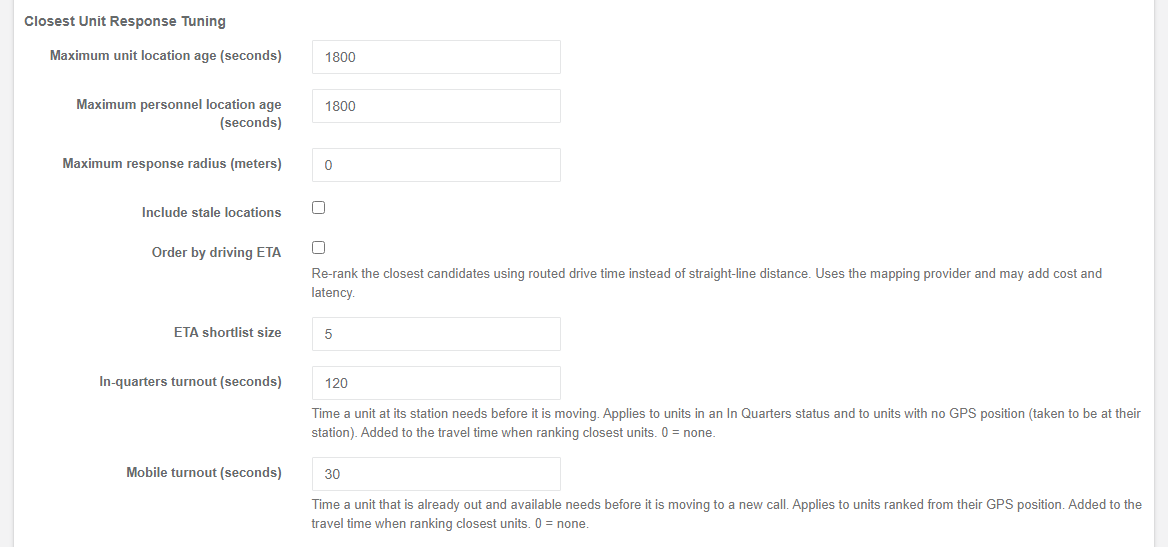
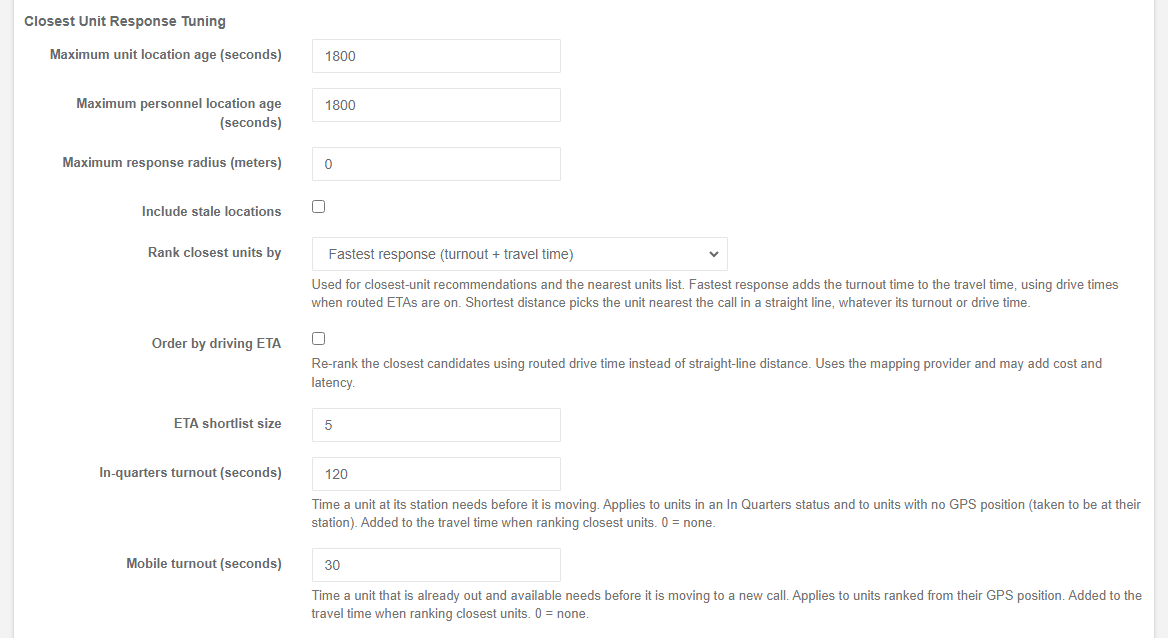
Docs Update

diff --git a/docs/web-app/run-cards.md b/docs/web-app/run-cards.md
@@ -23,7 +23,7 @@ Feature flag: `Dispatch.RunCards`. Menu: **Department dropdown → Dispatch Sett
 | **Automatically dispatch recommended resources** | On: matched cards dispatch immediately when the call is created (including calls from email/SMS import and the API). Off: recommendations pre-populate the New Call page for dispatcher review. |
 | **Minimum unit staffing to dispatch** | Units staffed below this level (Partially staffed, Degraded …) are not selected even if their status matches. Units without defined roles always pass. |
 | **Enable move-up / backfill recommendations** | After selection, check station coverage minimums and recommend relocating resources to depleted stations. |
-| **Closest unit response tuning** | For closest-unit mode: maximum age of a GPS position, maximum radius, whether stale positions may still be used, ordering by driving ETA (and how many candidates get a drive-time lookup), and the two **turnout times** — *In-quarters turnout* and *Mobile turnout* (see below). |
+| **Closest unit response tuning** | For closest-unit mode: what "closest" means (**Rank closest units by**: *Fastest response* or *Shortest distance*, see [below](#fastest-response-or-shortest-distance)), maximum age of a GPS position, maximum radius, whether stale positions may still be used, ordering by driving ETA (and how many candidates get a drive-time lookup), and the two **turnout times** — *In-quarters turnout* and *Mobile turnout* (see below). |
 | **Station coverage minimums** | Per station: minimum number of each unit type or personnel role that should remain available, a radius for closest-unit mode, enabled flag. |
 
 Station response areas come from the **geofences** you draw on [Groups & Stations](groups-stations).
@@ -45,6 +45,20 @@ Closest-unit mode ranks units by **response time**: how long the crew needs to g
 - Travel time is a straight-line estimate unless **Order by driving ETA** is on, in which case the best candidates are re-ranked on turnout plus routed drive time.
 - Example: an ambulance at its station 1 km away (2 min turnout + ~2 min travel) is ranked after an ambulance already on the road 1.5 km away (30 s turnout + ~3 min travel).
 - A station needs coordinates (or a geofence, or an address that can be geocoded) on [Groups & Stations](groups-stations) for units to be placed there.
+
+### Fastest response or shortest distance
+
+**Rank closest units by** decides what "closest" means, for every closest-unit run card and for the [Nearest Units](dispatch-calls#nearest-units) list on New Call and Update Call:
+
+| Option | Units are ranked by | Drive times |
+|---|---|---|
+| **Fastest response (turnout + travel time)** (the default) | Turnout plus travel time, as described above. | With **Order by driving ETA** on, the **ETA shortlist size** fastest candidates for each requirement get a routed drive time and are re-ranked on it. They are picked ahead of the units that only have a straight-line estimate. |
+| **Shortest distance** | Straight-line distance to the call, whatever the turnout or drive time. Response time only breaks a tie. | With **Order by driving ETA** on, the **ETA shortlist size** nearest candidates for each requirement still get a routed drive time. It is shown with the pick, but never changes the order. |
+
+- In a conditional run card, rows that ask for the *first arriving* unit still go to the fastest unit in either mode, and time conditions (*arrives before*, *available within*) measure the unit the card would pick, on its drive time when it has one.
+- Station-based run cards ignore this setting: they fill from the station cascade as before.
+- A straight-line estimate can be far too optimistic where the roads don't go straight to the call: a river, a one-way system or a city circulation plan can turn 3 km into a 13-minute drive. If a unit that should win sits just outside the shortlist, raise **ETA shortlist size** so its real drive time is looked up.
+- Example: MUG 1 is 13 minutes away by road and MUG 2 is 6 minutes away in a straight line. With a shortlist of 1 only MUG 1's drive time is known, so MUG 1 is picked. With a shortlist of 2 both are looked up and MUG 2 wins if its drive really is shorter.
 
 ### When the call has no location
 
@@ -84,7 +98,7 @@ Closest-unit and station-based selection need the call's location. If the call h
 | **Volunteer fire, 2 stations** | *Structure fire* (priority High + type Fire): L1 Engine×2, Tender×1, Chief role×1; L2 adds Engine×1 from the neighbouring station. *Medical*: Rescue×1, EMT role×2. Station-based mode, auto-dispatch off (officer reviews). |
 | **Career fire, 5 stations** | Cards per type with closest-unit mode, auto-dispatch on, coverage minimums (1 engine per station), move-ups enabled. |
 | **EMS** | *ALS emergency*: Ambulance×1 + Paramedic role×1; *BLS*: Ambulance×1. Minimum staffing *Fully staffed*. |
-| **EMS with recognised turnout times** (e.g. Belgian ambulance / MUG) | Closest-unit mode; *At station* status with base type **In Quarters**; *Available on the road* (radiofonisch) with base type **Available**; In-quarters turnout **120**, Mobile turnout **30**. |
+| **EMS with recognised turnout times** (e.g. Belgian ambulance / MUG) | Closest-unit mode ranked by **Fastest response**, **Order by driving ETA** on with a shortlist of 3–5; *At station* status with base type **In Quarters**; *Available on the road* (radiofonisch) with base type **Available**; In-quarters turnout **120**, Mobile turnout **30**. |
 | **SAR** | *Missing person*: Team leader role×1, Searcher role×6, K9 role×1 — manual selection (people, not apparatus). |
 | **Security** | *Alarm response*: Patrol unit×1 closest-unit, auto-dispatch on; *Medical on site*: adds First-aid role×1. |
 | **Industrial ERT** | *Hazmat release*: Hazmat team×1 + Safety officer role×1 + Fire brigade×1; coverage minimum keeps one crew in the plant. |
@@ -94,7 +108,7 @@ Closest-unit and station-based selection need the call's location. If the call h
 | Item | Value |
 |---|---|
 | Routes | `/User/RunCards/{Index,New,Edit,Preview}`, `/User/Dispatch/GetDispatchRecommendation?priority=&type=&latitude=&longitude=&alarmLevel=`; v4 `GET RunCards/GetRecommendation` (new call) and `GET RunCards/GetCallRecommendation?callId=&alarmLevel=` and `/User/Dispatch/GetCallDispatchRecommendation?callId=&priority=&type=&latitude=&longitude=` (Update Call; form values override the stored call) (adding resources, both built by `DispatchRecommendationRequest.ForCallInProgress`: `DispatchRecommendationRequest.CountDispatchedTowardRequirements` at the call's current level; a higher level previews Strike Next Alarm, filled in full) |
-| Settings | Department settings 58–60 (dispatch mode, auto-dispatch, tuning). Setting 60 is `DispatchRecommendationConfig`: location ages, radius, stale inclusion, routed ETA + shortlist, rest period, staffing gate, move-up, `InQuartersTurnoutSeconds`, `MobileTurnoutSeconds`. Station coverage rows per group |
+| Settings | Department settings 58–60 (dispatch mode, auto-dispatch, tuning). Setting 60 is `DispatchRecommendationConfig`: location ages, radius, stale inclusion, routed ETA + shortlist, rest period, staffing gate, move-up, `InQuartersTurnoutSeconds`, `MobileTurnoutSeconds`, `ClosestUnitRanking` (`ClosestUnitRankingModes`: `FastestResponse` 0, `ShortestDistance` 1; distance mode makes no routed lookups). Station coverage rows per group |
 | Unit placement | `UnitResponseOrigin` (shared with the New Call nearest-units board): In Quarters base type (23) → station, else GPS fix, else station. Results carry `PositionSource`, `TurnoutSeconds`, `ResponseSeconds` (turnout + travel); `EtaSeconds` is travel only |
 | Model | `RunCard`, `RunCardTrigger`, `RunCardAlarmLevel`, `RunCardUnitRequirement`, `RunCardRoleRequirement`, `RunCardStatusSelection`, `StationCoverageMinimum` |
 | Feature flag | `Dispatch.RunCards` (seeded by M0116) |

diff --git a/docs/web-app/reports.md b/docs/web-app/reports.md
@@ -150,6 +150,33 @@ Calls that none of these place show as **Unassigned**. Choosing a group also inc
 
 Periods the range only partly covers are marked with an asterisk.
 
+### Call Unit Times Report
+
+**Parameters:** Date range. For a single call, use **Unit Times** at the top of the call's page.
+
+For each call in the period, one row per unit that was dispatched to it or set a status on it:
+
+| Column | Shows |
+|---|---|
+| **Dispatched**, **En Route**, **On Scene**, **Staging**, **Cleared** | When the unit reached each step on this call, from the statuses on the call's record. Steps are recognised by the status's **base type**, so custom statuses count (see [Custom Statuses](custom-statuses)). |
+| **End of Commitment** | When the unit was available, in quarters or out of service again after the call: the end of its status history. Empty while the unit is still working the call. |
+| **Committed** | Dispatch to the end of commitment: how long the call kept the unit busy. |
+| **Linked By** | How the statuses were tied to the call: *Unit status* (sent for this call), *Auto-linked*, *Inferred* or *Dispatch only*, explained in the report's legend and under [Which call a status belongs to](dispatch-calls#which-call-a-status-belongs-to). |
+
+**Status history.** Under each unit is every status it set from dispatch until it was back in service, with the time, how long it stayed in each and the status's own colour. That is the unit's whole part in the call, including statuses the call's record doesn't hold:
+
+- a status pointing somewhere else, such as *At Hospital* with the hospital as its destination, and the *Returning* and *In Quarters* that follow;
+- statuses set after the call was closed, since a transport often outlasts the call.
+
+Those rows are marked **Unit history** and shown in grey. The history stops at the unit's first back-in-service or out-of-service status. It also stops when the unit is dispatched to another call or sets a status for one, or 12 hours after the call. A release Resgrid applied as the call closed (see [Unit status on dispatch and release](department-settings#unit-status-on-dispatch-and-release)) is marked *set by Resgrid*. The history carries on past it when the crew's next status is a working one, such as *Transporting*. It stops there when the crew's next status is back in service too.
+
+**Downloads:**
+
+- **Download CSV** gives one row per unit per call: the unit type and group, the times above, **End of Commitment** and **Committed Minutes**.
+- **Download status history CSV** gives one row per status. Each row has the status, its **meaning** (base type, such as *Transporting* or *At Hospital*), when it started and ended, the minutes in it, how it was linked and whether Resgrid set it.
+
+Filter the history CSV on the meaning for hospital turnaround (*At Hospital* minutes), or group it by unit type, call type or group for time committed and utilisation.
+
 ### Unit State History Report
 
 **Parameters:** Group selection or unit selection, date range
@@ -178,6 +205,7 @@ Several reports have parameter selection pages that allow filtering:
 | Unit State History | Group, unit, date range |
 | Action Logs | Group, user, date range |
 | Call Summary | Date range, group (optional) |
+| Call Unit Times | Date range (or one call, from the call's page) |
 
 All parameter pages respect the **visibility matrix** — only showing personnel/groups the user has permission to view.
 
@@ -187,14 +215,14 @@ All parameter pages respect the **visibility matrix** — only showing personnel
 |---|---|
 | **Volunteer fire** | Schedule the *Personnel hours* and *Call summary* reports monthly to the chief and treasurer (LOSAP points, run reimbursements); *Certification compliance* quarterly to the training officer. |
 | **Career fire** | *Unit state history* and *Personnel staffing history* for payroll reconciliation; *Upcoming shift readiness* each morning. |
-| **EMS** | *Call summary* by type for the medical director; *Event attendance* for CE credit. |
+| **EMS** | *Call summary* by type for the medical director; *Call unit times* status history CSV for hospital turnaround and time committed per ambulance / MUG; *Event attendance* for CE credit. |
 | **SAR** | *Personnel hours* per mission for volunteer-hour grants; *Department activity* YTD for the board. |
 | **Emergency management** | *Action logs* during activations for the after-action report; *Event attendance* for exercises. |
 | **Security / business** | *Active calls and resources* live view for the operations centre; *Flagged call notes* for supervisor review. |
 
 ## Technical reference
 
-`ReportsController` (+ `ChecklistReportsController`); routes `/User/Reports/{Index,PersonnelReport,StaffingReport,CertificationsReport,CertificationComplianceReport,UpcomingShiftReadinessReport,DepartmentActivityReport,PersonnelHoursReportParams,PersonnelStaffingHistoryReportParams,UnitStateHistoryReportParams,ActionLogsParams,CallSummaryReportParams,ActiveCallsResourcesReport,FlaggedCallNotesReportParams,EventAttendanceReportParams,ChecklistComplianceReport,LogReport}`; scheduled delivery via `ProfileController.Reporting` and the worker; module switch `ReportsDisabled`.
+`ReportsController` (+ `ChecklistReportsController`); routes `/User/Reports/{Index,PersonnelReport,StaffingReport,CertificationsReport,CertificationComplianceReport,UpcomingShiftReadinessReport,DepartmentActivityReport,PersonnelHoursReportParams,PersonnelStaffingHistoryReportParams,UnitStateHistoryReportParams,ActionLogsParams,CallSummaryReportParams,CallUnitTimesReportParams,CallUnitTimesReport,CallUnitTimesReportCsv,CallUnitTimesHistoryCsv,ActiveCallsResourcesReport,FlaggedCallNotesReportParams,EventAttendanceReportParams,ChecklistComplianceReport,LogReport}`; scheduled delivery via `ProfileController.Reporting` and the worker; module switch `ReportsDisabled`. Call Unit Times reads `ICallStatusAttributionService.GetUnitTimelinesForCallsAsync` (`CallUnitTimeline.Build`: the call's record plus `StatusDestinationSources.FollowOn` (6) copies, never stored, until `UnitCallInvolvement.HasFinishedCall`) and `CallUnitTimesCalculator`.
 
 ### Internal Report Generation
 The `InternalRunReport` endpoint is an **anonymous access** endpoint intended for system-internal use (e.g., scheduled report delivery). It supports generating:

diff --git a/docs/web-app/dispatch-calls.md b/docs/web-app/dispatch-calls.md
@@ -77,11 +77,21 @@ Once the call has a location, the **Nearest Units** table lists every unit you m
 |---|---|
 | **Unit** | Name, unit type, station and service area, and a badge when the call is inside the unit's own (or parent) boundary. |
 | **Status** | Current status, green when available. |
-| **ETA** | Time to the call. When the department sets [turnout times](run-cards#how-closest-unit-mode-measures-a-unit) it is the full response time, with *incl. N s turnout* underneath. *est.* marks a straight-line estimate; without the mark it is a routed drive time (Dispatch Settings → *Order by driving ETA*). Distance in km below. |
+| **ETA** | Time to the call. When the department sets [turnout times](run-cards#how-closest-unit-mode-measures-a-unit) it is the full response time, with *incl. N s turnout* underneath. *est.* marks a straight-line estimate; without the mark it is a routed drive time (Dispatch Settings → *Order by driving ETA*, see below for which units get one). Distance in km below. |
 | **Position** | *Live GPS* or *Station location*. A unit in an **In Quarters** status, or with no GPS position, is placed at its station. A GPS position older than the maximum location age is marked **stale**. |
 | **Shift / Role mix** | Crew on shift and the roles they hold. |
 
-Available units come first, ordered by response time — the fastest unit is at the top. A stale position is flagged on the row but does not push the unit down the list. Units with no position at all, and unavailable units, come last.
+Available units come first, in the order the department ranks closest units (Dispatch Settings → [Rank closest units by](run-cards#fastest-response-or-shortest-distance)): by response time by default, so the fastest unit is at the top, or by straight-line distance. A stale position is flagged on the row but does not push the unit down the list. Units with no position at all, and unavailable units, come last.
+
+**Drive times.** With **Order by driving ETA** on, Resgrid looks up road drive times the same way a run card does:
+
+- **Who gets one:** the **ETA shortlist size** best available units of *each unit type* (so ambulances and MUGs are each looked up, not just the nearest units overall), plus the closest responders.
+- **Shared positions:** units at the same position, such as two ambulances in quarters at one station, share one lookup. A call makes at most 25 lookups.
+- **Order within a type:** units with a looked-up drive time come before units with only an estimate, as in a run card. The first unit of each type is the one a closest-unit run card would pick for it, unless the run card skips it for staffing or a rest period.
+- **Order across types:** the types are merged by response time (or distance).
+- **The note** under the table says how many positions were looked up.
+
+In *Shortest distance* mode the drive times are still shown, but they don't change the order.
 
 ![The New Call map drawing only available units](/img/web-app/dispatch/new-call-map-available.png)
 
@@ -99,7 +109,7 @@ Press **Create Call**. Notifications go out immediately through the queue: push 
 |---|---|
 | **Call details** | Everything entered above, with the dispatch audio if the call came from a radio/TTS source. |
 | **Map** | Call location, responding personnel and units live, route lines. |
-| **Dispatched personnel / units** | Who was dispatched, their current status and timestamps (responding, on scene …). |
+| **Dispatched personnel / units** | Who was dispatched, their current status and timestamps (responding, on scene …). **Unit Times** (top of the page, next to Print) opens the [Call Unit Times report](reports#call-unit-times-report) for the call: each unit's key times and its full status history until it was back in service. |
 | **Notes** | Add notes (with your location if allowed); **flag** a note for follow-up with a reason. |
 | **Images and files** | Attach photos, documents, audio and video up to 10 MB; flag inappropriate items for [moderation](chat#moderation). |
 | **Check-in timers** | PAR / rehab / IC / hazmat countdowns with **Check In** buttons and history. |

diff --git a/docs/web-app/department-settings.md b/docs/web-app/department-settings.md
@@ -99,7 +99,7 @@ A name is up to 50 characters; invisible characters are removed and runs of spac
 | **Rest period** | Deprioritise a unit or person for N minutes after a dispatch so the same resources are not sent back-to-back. |
 | **New call form fields** | Which built-in fields appear on the call forms and which are required (name, nature, priority and type are always shown and required). The same rules apply to the New Call, Edit Call and Add Archived Call pages and to the Dispatch, Responder, Unit and IC apps. A hidden field is left off the form, and editing a call keeps whatever it already holds for that field. A call saved as [pending](dispatch-calls#pending-and-scheduled-calls) skips the *dispatch list* and *dispatch on* requirements — the dispatcher picks recipients when sending it — and *dispatch on* is never required when editing a call or adding an archived one. *Plus Code* can be hidden but not required: it only finds the location and is not saved on the call, so require *GPS Coordinates* instead. |
 | **Unit status timers** | Highlight a unit on the Big Board when it has sat in a status too long (e.g. dispatched > 4 min without departing). Dispatchers can acknowledge, mute or annotate the alert from the Big Board's Unit Alerts widget — see [Big Board](../apps/big-board). **Reason when acknowledging** makes that note required: *Optional* (default), *Required for alerts*, or *Required for warnings and alerts*. Timers key on a status's [meaning](custom-statuses#status-meanings): a status with no meaning is never timed, so the page warns when units are dispatched to one, or when a status set in use has options without a meaning. |
-| **Run cards & automatic dispatch** | Selection mode, auto-dispatch, minimum staffing, move-ups, closest-unit tuning (maximum location age, radius, include stale, order by driving ETA, shortlist size, **in-quarters turnout** and **mobile turnout** in seconds), station coverage minimums — see [Run Cards](run-cards#how-closest-unit-mode-measures-a-unit). Turnout is added to travel time when units are ranked: in-quarters turnout for units in an *In Quarters* status or with no GPS position, mobile turnout for units ranked from their GPS. Both default to 0 (rank by distance only). |
+| **Run cards & automatic dispatch** | Selection mode, auto-dispatch, minimum staffing, move-ups, closest-unit tuning (**rank closest units by** fastest response or shortest distance — see [Run Cards](run-cards#fastest-response-or-shortest-distance), maximum location age, radius, include stale, order by driving ETA, shortlist size, **in-quarters turnout** and **mobile turnout** in seconds), station coverage minimums — see [Run Cards](run-cards#how-closest-unit-mode-measures-a-unit). Turnout is added to travel time when units are ranked: in-quarters turnout for units in an *In Quarters* status or with no GPS position, mobile turnout for units ranked from their GPS. Both default to 0 (rank by distance only). |
 | **Check-in timers** | Auto-enable on new calls, default timer configs and per-type/priority overrides — see [Call Check-in Timers](call-checkin-timers). |
 
 <a id="unit-status-on-dispatch-and-release"></a>

diff --git a/docs/apps/responder.md b/docs/apps/responder.md
@@ -49,7 +49,7 @@ Resgrid Responder is a cross-platform application designed for **individual firs
   - **Dispatch selection**: multi-select personnel, groups, roles, units, or everyone
 - **Call detail view** with tabbed content: info, contact, protocols, dispatched resources, and timeline
 - Add **notes**, **images**, and **file attachments** to calls
-- **Route to call** via native maps for turn-by-turn navigation
+- **Route to call** for turn-by-turn navigation, in the app chosen under **Settings → Navigation App** (the device's default, Google Maps, Apple Maps or Waze)
 - Edit and close existing calls (permission-gated) — **Notify everyone on the call** (on by default) tells the dispatched personnel, groups, roles, units and command team it closed; a call under an active incident command is refused with the reason shown
 
 ### Personnel & Units
@@ -144,8 +144,9 @@ Names a department sets under [Terminology](../web-app/department-settings#termi
 | **Server URL** | Custom API endpoint for self-hosted deployments |
 | **Login Info** | Update username and password |
 | **Theme** | Light, Dark, or System |
-| **Language** | English, Spanish, or Arabic |
+| **Language** | English, Spanish, Swedish, German, Greek, French, Italian, Polish, Ukrainian or Arabic |
 | **Keep Alive** | Prevent screen from sleeping |
+| **Navigation App** | App this device opens for directions to a call, destination or map pin: *Device default* (Android: the default maps app or the system chooser; iOS: Apple Maps), *Google Maps*, *Apple Maps* (iOS only) or *Waze*. If the chosen app isn't installed the next option is tried; Waze then opens its web link. A call without usable coordinates is navigated to by its address. Kept when someone signs out. |
 | **Realtime Geolocation** | Send GPS position to API in real-time |
 | **Background Geolocation** | Track location when app is backgrounded |
 | **Bluetooth Device** | Scan and pair BLE PTT headsets |

diff --git a/docs/apps/unit.md b/docs/apps/unit.md
@@ -73,7 +73,7 @@ Resgrid Unit is a cross-platform application designed for **vehicle and apparatu
   - **Dispatch selection**: multi-select users, groups, roles, units, or everyone
 - **Call detail view** with tabs: Info, Contact, Protocols, Dispatched resources, and Timeline
 - Add **notes**, **images**, and **file attachments** to calls
-- **Route to call** in native Maps for turn-by-turn navigation
+- **Route to call** for turn-by-turn navigation, in the app chosen under **Settings → Navigation App** (the device's default, Google Maps, Apple Maps or Waze)
 - Set as active call, edit, and close calls (permission-gated) — **Notify everyone on the call** (on by default) tells the dispatched personnel, groups, roles, units and command team it closed; a call under an active incident command is refused with the reason shown
 
 ### Push-to-Talk (PTT) Voice
@@ -178,8 +178,9 @@ Names a department sets under [Terminology](../web-app/department-settings#termi
 | **Active Unit** | Select which unit this device represents (dropdown of assigned units) |
 | **Login Info** | Update username and password |
 | **Theme** | Light, Dark, or System |
-| **Language** | English, Spanish, or Arabic |
+| **Language** | English, Spanish, Swedish, German, Greek, French, Italian, Polish, Ukrainian or Arabic |
 | **Keep Alive** | Prevent screen from sleeping (useful for apparatus-mounted tablets) |
+| **Navigation App** | App this device opens for directions to a call, destination or map pin: *Device default* (Android: the default maps app or the system chooser; iOS: Apple Maps), *Google Maps*, *Apple Maps* (iOS only) or *Waze*. If the chosen app isn't installed the next option is tried; Waze then opens its web link. A call without usable coordinates is navigated to by its address. Kept when someone signs out. |
 | **Background Geolocation** | Enable/disable background GPS tracking |
 | **Bluetooth Device** | Scan and pair BLE PTT headsets |
 
